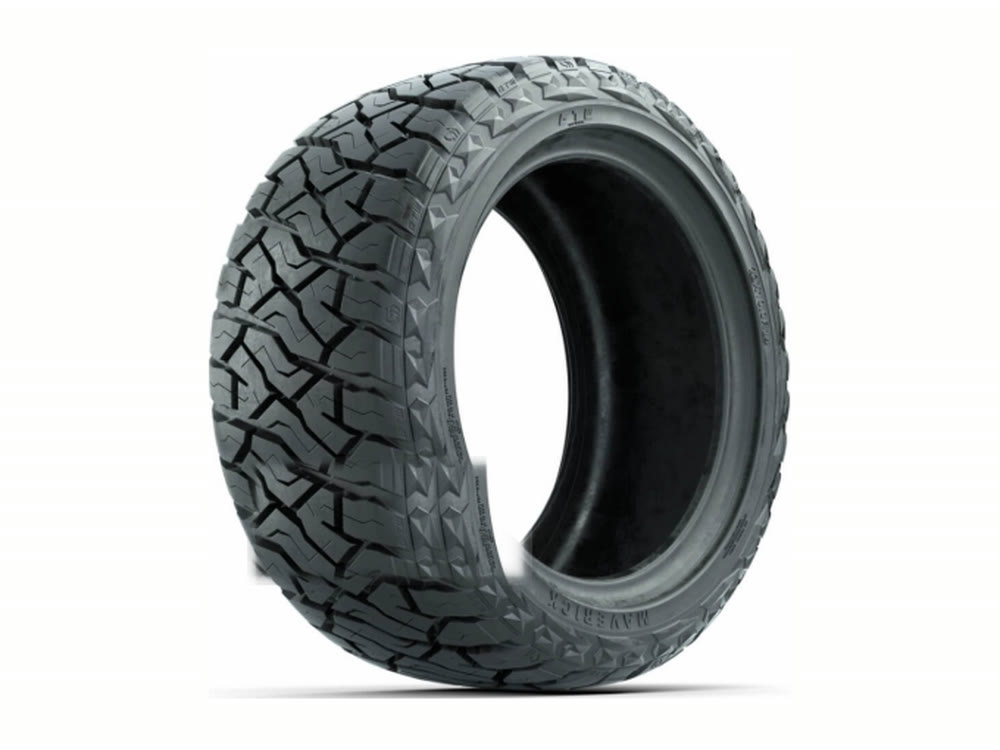
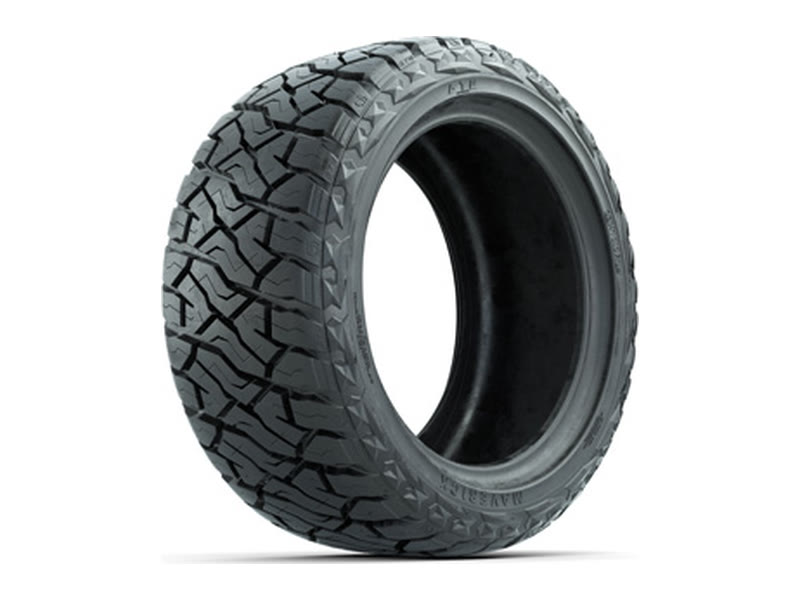
Use the supplied product photos on the parts page
Wheels, tires and accessories now use real product shots. The drawn SVG
sound bar is gone.

All three arrived square, and .acc-photo is 4:3 with object-fit: cover,
which would have cut a quarter off the top and bottom — beheading the
sound bar and flattening both tires. So each is cropped to its product,
scaled, and padded back out to 4:3 on white rather than cropped to fit.
The white matches the photos' own backdrop, so the padding is invisible.

Alt text rewritten to describe what is actually in each frame, including
that the accessories shot is the bar plus its full fitting kit.

Changed region(s): [[0.1875, 0.06, 0.8125, 0.96], [0.5312, 0.33, 0.5625, 0.45], [0.4062, 0.51, 0.4375, 0.54]]

diff --git a/parts.html b/parts.html
@@ -224,14 +224,14 @@
 
   <div class="acc-grid">
     <div class="acc-card fade-up">
-      <div class="acc-photo"><img src="assets/acc-wheels.jpg" alt="Black GTW multi-spoke golf cart wheel fitted with a street-terrain tire" loading="lazy" width="1000" height="750" /></div>
+      <div class="acc-photo"><img src="assets/acc-wheels.jpg" alt="Matte black multi-spoke golf cart wheel mounted with an all-terrain tire" loading="lazy" width="1200" height="900" /></div>
       <div class="acc-body">
         <h3>Wheels</h3>
         <p>On-trend GTW wheel styles and sizes to sharpen up any cart — matched, mounted, and balanced in-house.</p>
       </div>
     </div>
     <div class="acc-card fade-up">
-      <div class="acc-photo"><img src="assets/acc-tires.jpg" alt="All-terrain golf cart tire showing tread and sidewall" loading="lazy" width="1000" height="750" /></div>
+      <div class="acc-photo"><img src="assets/acc-tires.jpg" alt="All-terrain golf cart tire showing its tread pattern and sidewall" loading="lazy" width="800" height="600" /></div>
       <div class="acc-body">
         <h3>Tires</h3>
         <p>Street, turf, and all-terrain tires for how you actually drive — from fairway-friendly to ranch-ready.</p>
@@ -245,7 +245,7 @@
       </div>
     </div>
     <div class="acc-card fade-up">
-      <div class="acc-photo"><img src="assets/acc-audio.svg" alt="Overhead golf cart sound bar with an illuminated light ring" loading="lazy" width="800" height="600" /></div>
+      <div class="acc-photo"><img src="assets/acc-audio.jpg" alt="Golf cart sound bar with colour-changing LED speaker rings, shown with its mounting brackets, wiring and remote" loading="lazy" width="800" height="600" /></div>
       <div class="acc-body">
         <h3>Accessories &amp; More</h3>
         <p>Seating, lighting, speakers, storage, and the rest of the GTW accessory catalog — special orders welcome, installed here.</p>
